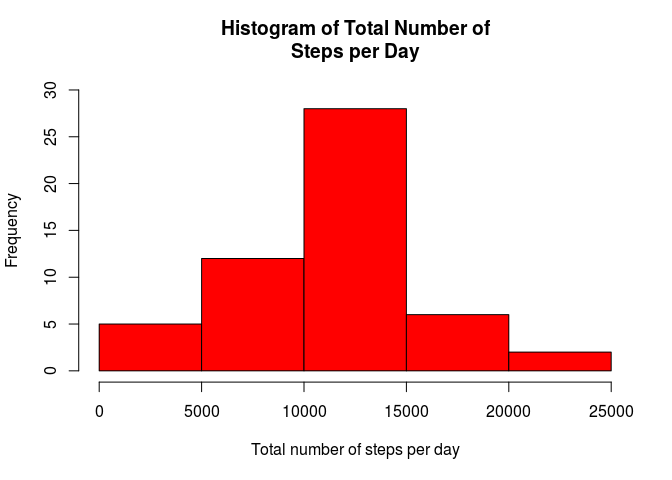
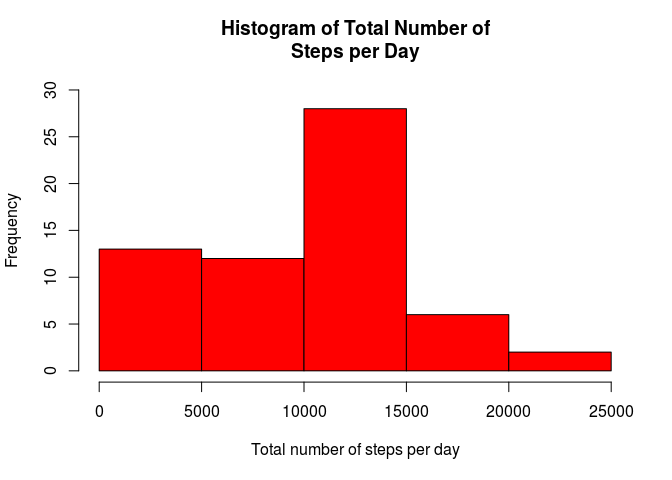
final commit with all files

Changed region(s): [[0.125, 0.5, 0.3125, 0.6875]]

diff --git a/PA1_template.html b/PA1_template.html
@@ -140,31 +140,20 @@ We can then use the <strong><em>mean</em></strong> and <strong><em>median</em></
 ## 
 ##     intersect, setdiff, setequal, union</code></pre>
 <pre class="r"><code>dataByDate &lt;- group_by(data, date)
-dataByDate &lt;- summarize(dataByDate, steps = sum(steps))
+dataByDate &lt;- summarize(dataByDate, steps = sum(steps, na.rm = T))
 hist(dataByDate$steps, xlab = &quot;Total number of steps per day&quot;, main = &quot;Histogram of Total Number of\nSteps per Day&quot;, col = &quot;red&quot;, ylim = c(0, 30))</code></pre>
[2 lines of base64/hex data omitted]
 <pre class="r"><code>meanTotal &lt;- mean(dataByDate$steps, na.rm = T)
 meanTotal</code></pre>
-<pre><code>## [1] 10766.19</code></pre>
+<pre><code>## [1] 9354.23</code></pre>
 <pre class="r"><code>medianTotal &lt;- median(dataByDate$steps, na.rm = T)
 medianTotal</code></pre>
-<pre><code>## [1] 10765</code></pre>
-<p>We can see that mean for the total number of steps per day is 1.076618910^{4} and the median is 10765. The median being smaller than the mean.</p>
+<pre><code>## [1] 10395</code></pre>
+<p>We can see that mean for the total number of steps per day is 9354.2295082 and the median is 10395. The median being smaller than the mean.</p>
 </div>
 <div id="what-is-the-average-daily-activity-pattern" class="section level2">
 <h2>What is the average daily activity pattern?</h2>
 <p>Now we need to take the average of number of steps taken during each interval for all days. To perform this computation, we again use the <strong><em>group_by</em></strong> and <strong><em>summarize</em></strong> methods from the <strong><em>dplyr</em></strong> package; but this time we group the data by the interval ID rather than the date (remember we are averaging over all days for each interval!). Since there are missing values in our data, we need to use the <strong><em>na.rm = TRUE</em></strong> option, while computing the mean. We use the <strong><em>plot</em></strong> function from the R base graphics to plot the mean over all days of steps for each interval. We have used the <strong><em>type = “l”</em></strong> option to make it a line plot.</p>
-<pre class="r"><code>data[data$interval == 5 &amp; data$steps &gt; 0, ]</code></pre>
-<pre><code>##      steps       date interval
-## NA      NA       &lt;NA&gt;       NA
-## NA.1    NA       &lt;NA&gt;       NA
-## 2594    18 2012-10-10        5
-## NA.2    NA       &lt;NA&gt;       NA
-## NA.3    NA       &lt;NA&gt;       NA
-## NA.4    NA       &lt;NA&gt;       NA
-## NA.5    NA       &lt;NA&gt;       NA
-## NA.6    NA       &lt;NA&gt;       NA
-## NA.7    NA       &lt;NA&gt;       NA</code></pre>
 <pre class="r"><code>dataByInterval &lt;- group_by(data, interval)
 dataByInterval &lt;- summarize(dataByInterval, steps = mean(steps, na.rm = T))
 plot(dataByInterval$interval, dataByInterval$steps, type = &quot;l&quot;, xlab = &quot;Time interval&quot;, ylab = &quot;number of steps&quot;, main = &quot;Time-series plot of number of steps\n per interval, averaged over all days&quot;)</code></pre>
@@ -178,7 +167,8 @@ maxInterval</code></pre>
 <h2>Imputing missing values</h2>
 <p>We use the <strong><em>rowSums</em></strong> function to compute the number of rows that contain a missing value.<br />
 The only column with missing values in our data is <strong>steps</strong>. We use the average number of steps for each interval, computed in previous step, to replace the missing values. For this purpose we use a <strong><em>for</em></strong> loop, to go over each row in the dataframe and check whether the “steps” column for that row is a missing value or not. If the value in that cell is <strong><em>NA</em></strong>, we substitute it with the value from the table that we computed in previous step.</p>
-<pre class="r"><code>sum(rowSums(is.na(data)))</code></pre>
+<pre class="r"><code>missingValues &lt;- sum(rowSums(is.na(data)))
+missingValues</code></pre>
 <pre><code>## [1] 2304</code></pre>
 <pre class="r"><code>imputedData &lt;- data
 for (row in 1:nrow(data)) {
@@ -187,7 +177,8 @@ for (row in 1:nrow(data)) {
                 imputedData[row, &quot;steps&quot;] &lt;- dataByInterval[dataByInterval$interval == interval, &quot;steps&quot;]
         }
 }</code></pre>
-<p>After imputing the missing values, we repeat the same operation we performed in the first step to plot a histogram of the total number of steps per day and to compute the mean and median of these values.</p>
+<p>There were initially 2304 values missing from the data that we imputed.<br />
+After imputing the missing values, we repeat the same operation we performed in the first step to plot a histogram of the total number of steps per day and to compute the mean and median of these values.</p>
 <pre class="r"><code>imputedDataByDate &lt;- group_by(imputedData, date)
 imputedDataByDate &lt;- summarize(imputedDataByDate, steps = sum(steps))
 hist(imputedDataByDate$steps, xlab = &quot;Total number of steps per day&quot;, main = &quot;Histogram of Total Number of\nSteps per Day using Imputed Values&quot;, col = &quot;red&quot;, ylim = c(0, 40))</code></pre>
@@ -198,7 +189,7 @@ meanImputed</code></pre>
 <pre class="r"><code>medianImputed &lt;- median(imputedDataByDate$steps)
 medianImputed</code></pre>
 <pre><code>## [1] 10766.19</code></pre>
-<p>The mean and median computed in these step are both 1.076618910^{4}. Note that the mean has not changed from the dataset with missing values but the median has increased from 10765 to 1.076618910^{4}.</p>
+<p>The mean and median computed in these step are both 1.076618910^{4}. Note that these values have both changed from the dataset with missing values (mean: 1.076618910^{4} vs 9354.2295082, and median: 1.076618910^{4} vs 10395.</p>
 </div>
 <div id="are-there-differences-in-activity-patterns-between-weekdays-and-weekends" class="section level2">
 <h2>Are there differences in activity patterns between weekdays and weekends?</h2>

diff --git a/PA1_template.md b/PA1_template.md
@@ -37,7 +37,7 @@ library(dplyr)
 
 ```r
 dataByDate <- group_by(data, date)
-dataByDate <- summarize(dataByDate, steps = sum(steps))
+dataByDate <- summarize(dataByDate, steps = sum(steps, na.rm = T))
 hist(dataByDate$steps, xlab = "Total number of steps per day", main = "Histogram of Total Number of\nSteps per Day", col = "red", ylim = c(0, 30))
 ```
 
@@ -49,7 +49,7 @@ meanTotal
 ```
 
 ```
-## [1] 10766.19
+## [1] 9354.23
 ```
 
 ```r
@@ -58,30 +58,13 @@ medianTotal
 ```
 
 ```
-## [1] 10765
+## [1] 10395
 ```
-We can see that mean for the total number of steps per day is 1.0766189\times 10^{4} and the median is 10765. The median being smaller than the mean.  
+We can see that mean for the total number of steps per day is 9354.2295082 and the median is 10395. The median being smaller than the mean.  
 
 ## What is the average daily activity pattern?
 Now we need to take the average of number of steps taken during each interval for all days. To perform this computation, we again use the ***group_by*** and ***summarize*** methods from the ***dplyr*** package; but this time we group the data by the interval ID rather than the date (remember we are averaging over all days for each interval!). Since there are missing values in our data, we need to use the ***na.rm = TRUE*** option, while computing the mean. 
 We use the ***plot*** function from the R base graphics to plot the mean over all days of steps for each interval. We have used the ***type = "l"*** option to make it a line plot.
-
-```r
-data[data$interval == 5 & data$steps > 0, ]
-```
-
-```
-##      steps       date interval
-## NA      NA       <NA>       NA
-## NA.1    NA       <NA>       NA
-## 2594    18 2012-10-10        5
-## NA.2    NA       <NA>       NA
-## NA.3    NA       <NA>       NA
-## NA.4    NA       <NA>       NA
-## NA.5    NA       <NA>       NA
-## NA.6    NA       <NA>       NA
-## NA.7    NA       <NA>       NA
-```
 
 ```r
 dataByInterval <- group_by(data, interval)
@@ -107,7 +90,8 @@ We use the ***rowSums*** function to compute the number of rows that contain a m
 The only column with missing values in our data is **steps**. We use the average number of steps for each interval, computed in previous step, to replace the missing values. For this purpose we use a ***for*** loop, to go over each row in the dataframe and check whether the "steps" column for that row is a missing value or not. If the value in that cell is ***NA***, we substitute it with the value from the table that we computed in previous step.
 
 ```r
-sum(rowSums(is.na(data)))
+missingValues <- sum(rowSums(is.na(data)))
+missingValues
 ```
 
 ```
@@ -123,6 +107,7 @@ for (row in 1:nrow(data)) {
         }
 }
 ```
+There were initially 2304 values missing from the data that we imputed.  
 After imputing the missing values, we repeat the same operation we performed in the first step to plot a histogram of the total number of steps per day and to compute the mean and median of these values.
 
 ```r
@@ -150,7 +135,7 @@ medianImputed
 ```
 ## [1] 10766.19
 ```
-The mean and median computed in these step are both 1.0766189\times 10^{4}. Note that the mean has not changed from the dataset with missing values but the median has increased from 10765 to 1.0766189\times 10^{4}.  
+The mean and median computed in these step are both 1.0766189\times 10^{4}. Note that these values have both changed from the dataset with missing values (mean: 1.0766189\times 10^{4} vs 9354.2295082, and median: 1.0766189\times 10^{4} vs 10395.  
 
 
 ## Are there differences in activity patterns between weekdays and weekends?
